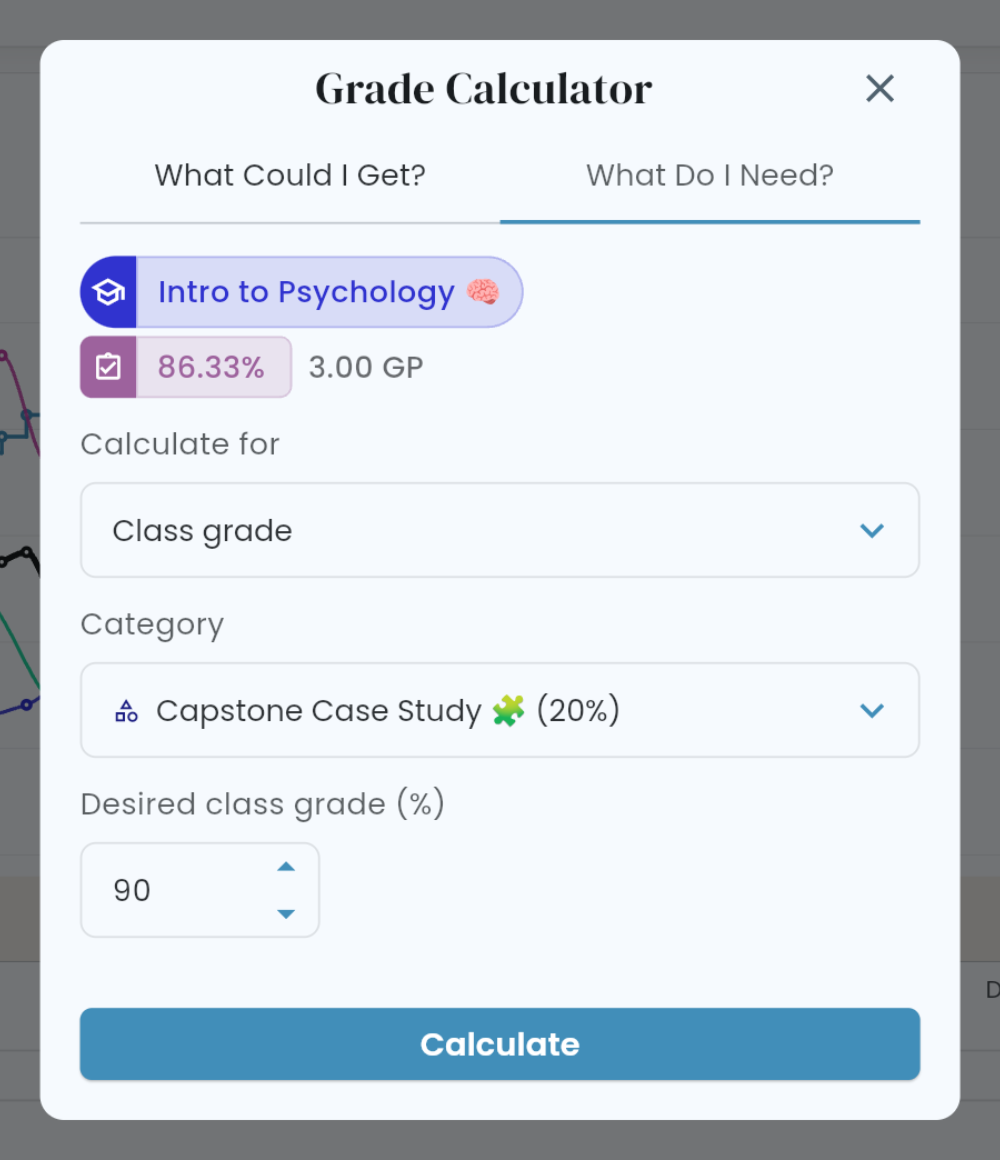
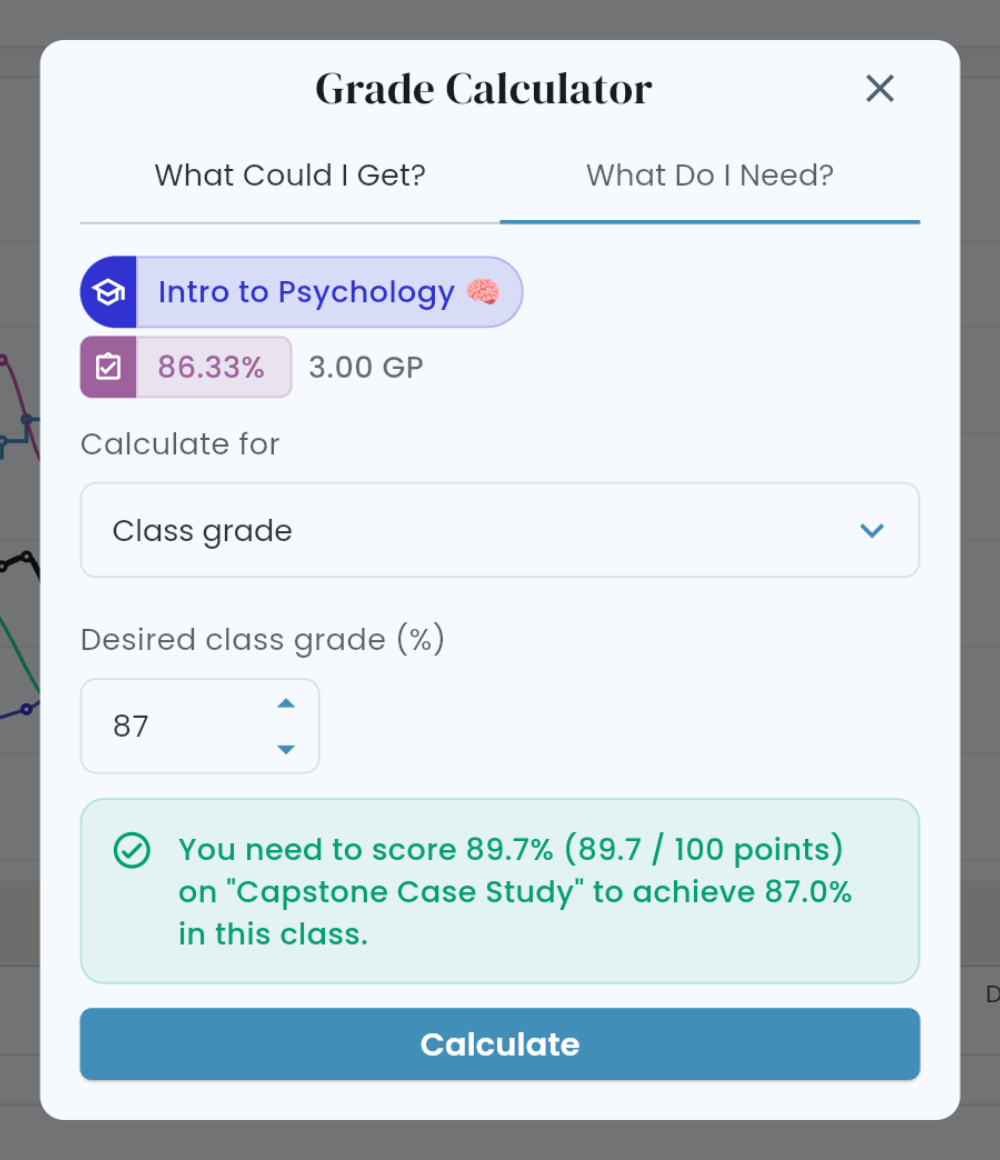
Add pre-navigation screenshot skip prompt
Allow skipping feature and press screenshots before opening their routes. Also update the grade calculator onboarding image.

diff --git a/bin/grab-screenshots-web.py b/bin/grab-screenshots-web.py
@@ -170,8 +170,15 @@ class Browser:
         return Image.open(io.BytesIO(base64.b64decode(data)))
 
 
-def confirm_capture(slug):
+def wants_shot(slug):
     print()
+    if ask(f"  → Next: '{slug}'. Press Enter to open it, 's' to skip, 'q' to quit: ") == "s":
+        print("  ↷ skipped")
+        return False
+    return True
+
+
+def confirm_capture(slug):
     if slug in SETUP_NOTES:
         print(f"    {SETUP_NOTES[slug]}")
     reply = ask(f"  → Navigate to '{slug}'. Press Enter to capture, 's' to skip, 'q' to quit: ")
@@ -206,6 +213,8 @@ def center_crop(image, size):
 
 
 def capture_feature(browser, slug, route, width, crop_x, crop_y):
+    if not wants_shot(slug):
+        return
     size = (width, FEATURE_SIZE[1])
     browser.open(route, size, FEATURE_SCALE)
     if not confirm_capture(slug):
@@ -227,6 +236,8 @@ def frame_laptop(capture):
 
 
 def capture_press(browser, slug, route):
+    if not wants_shot(slug):
+        return
     browser.open(route, PRESS_SIZE, PRESS_SCALE)
     if not confirm_capture(slug):
         return
